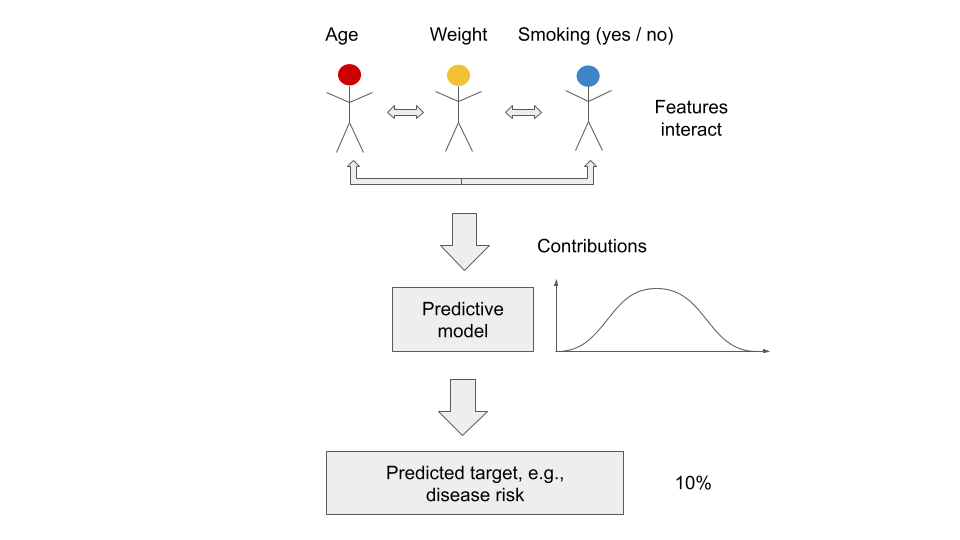
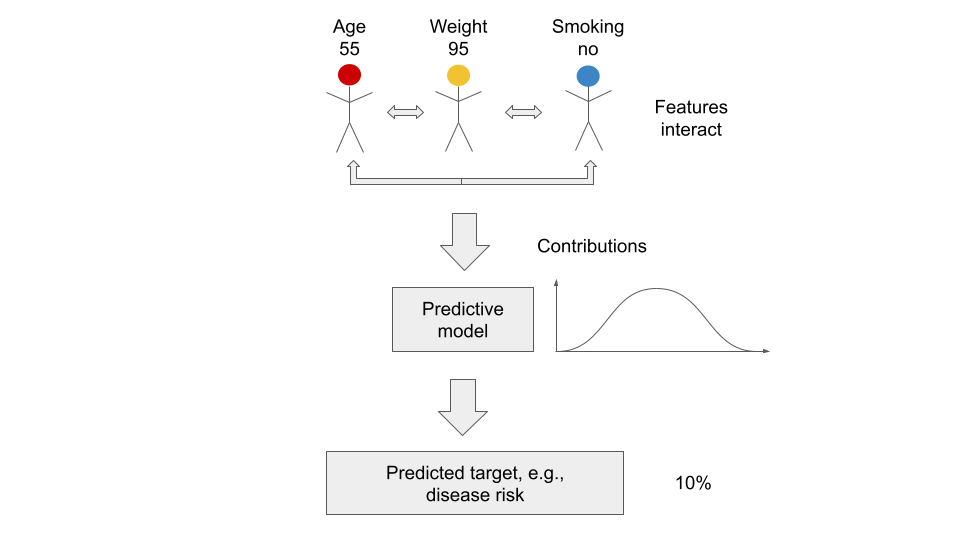
shapley: adapt Shapley_6.png to show feature value not feature itself + adapt path to figures

Changed region(s): [[0.5312, 0.0296, 0.7188, 0.1185], [0.4375, 0.0296, 0.5, 0.1185], [0.3438, 0.0296, 0.375, 0.1185]]

diff --git a/slides/shapley/slides-shapley-ml.tex b/slides/shapley/slides-shapley-ml.tex
@@ -25,7 +25,7 @@
 
 \begin{figure}
     \centering
-    \includegraphics{slides/shapley/figure/Shapley_6.png}
+    \includegraphics{figure/Shapley_6.png}
 \end{figure}
 
 \end{vbframe}
@@ -96,7 +96,7 @@ Strumbelj, Erik, Igor Kononenko, Erik Strumbelj, and Igor Kononenko. 2014. $"$Ex
   \itemsep1em
     \item \textbf{Efficiency}: Feature contributions add up to the (centered) prediction. That means, unlike, e.g., LIME, we get a dense attribution, and not a sparse one.
       $\sum\nolimits_{j=1}^p\phi_j=\hat{f}(x)-E_X(\fh(X))$
-    \item \textbf{Symmetry}: Two feature that contribute the same to the prediction get the same payout. This ensures that, for example, interaction effects between two features are fairly divided. \\
+    \item \textbf{Symmetry}: Two features that contribute the same to the prediction get the same payout. This ensures that, for example, interaction effects between two features are fairly divided. \\
       $\fh_{S\cup\{j\}}(\xv_{\Scupj}) = \fh_{\Scupk}(\xv_{\Scupk})$ for all $S \subseteq P\setminus\{j,k\}$ then $\phi_j=\phi_k$
     \item \textbf{Dummy / Null Player}: The Shapley value of a feature that does not influence the prediction is zero. This means that if a feature was not selected by the model (e.g., tree or LASSO) the Shapley value is zero.  \\
       $\fh_{\Scupj}(\Scupj)=\fhS(S)$ for all $S \subseteq P$ then $\phi_j=0$

diff --git a/slides/shapley/slides-shapley-game-theory.tex b/slides/shapley/slides-shapley-game-theory.tex
@@ -60,7 +60,7 @@
 
 \begin{figure}
     \centering
-    \includegraphics{slides/shapley/figure/Shapley_1.png}
+    \includegraphics{figure/Shapley_1.png}
 \end{figure}
 
 \end{vbframe}
@@ -69,7 +69,7 @@
 
 \begin{figure}
     \centering
-    \includegraphics{slides/shapley/figure/Shapley_2.png}
+    \includegraphics{figure/Shapley_2.png}
 \end{figure}
 
 \end{vbframe}
@@ -77,7 +77,7 @@
 
 \begin{figure}
     \centering
-    \includegraphics{slides/shapley/figure/Shapley_3.png}
+    \includegraphics{figure/Shapley_3.png}
 \end{figure}
 
 \end{vbframe}
@@ -85,7 +85,7 @@
 
 \begin{figure}
     \centering
-    \includegraphics{slides/shapley/figure/Shapley_4.png}
+    \includegraphics{figure/Shapley_4.png}
 \end{figure}
 
 \end{vbframe}
@@ -109,7 +109,7 @@
 
 \begin{figure}
     \centering
-    \includegraphics{slides/shapley/figure/Shapley_5.png}
+    \includegraphics{figure/Shapley_5.png}
 \end{figure}
 
 \end{vbframe}
@@ -140,7 +140,7 @@
 
 % \begin{figure}
 %     \centering
-%     \includegraphics{slides/shapley/figure/Shapley_5.png}
+%     \includegraphics{figure/Shapley_5.png}
 % \end{figure}
 
 % \end{vbframe}
